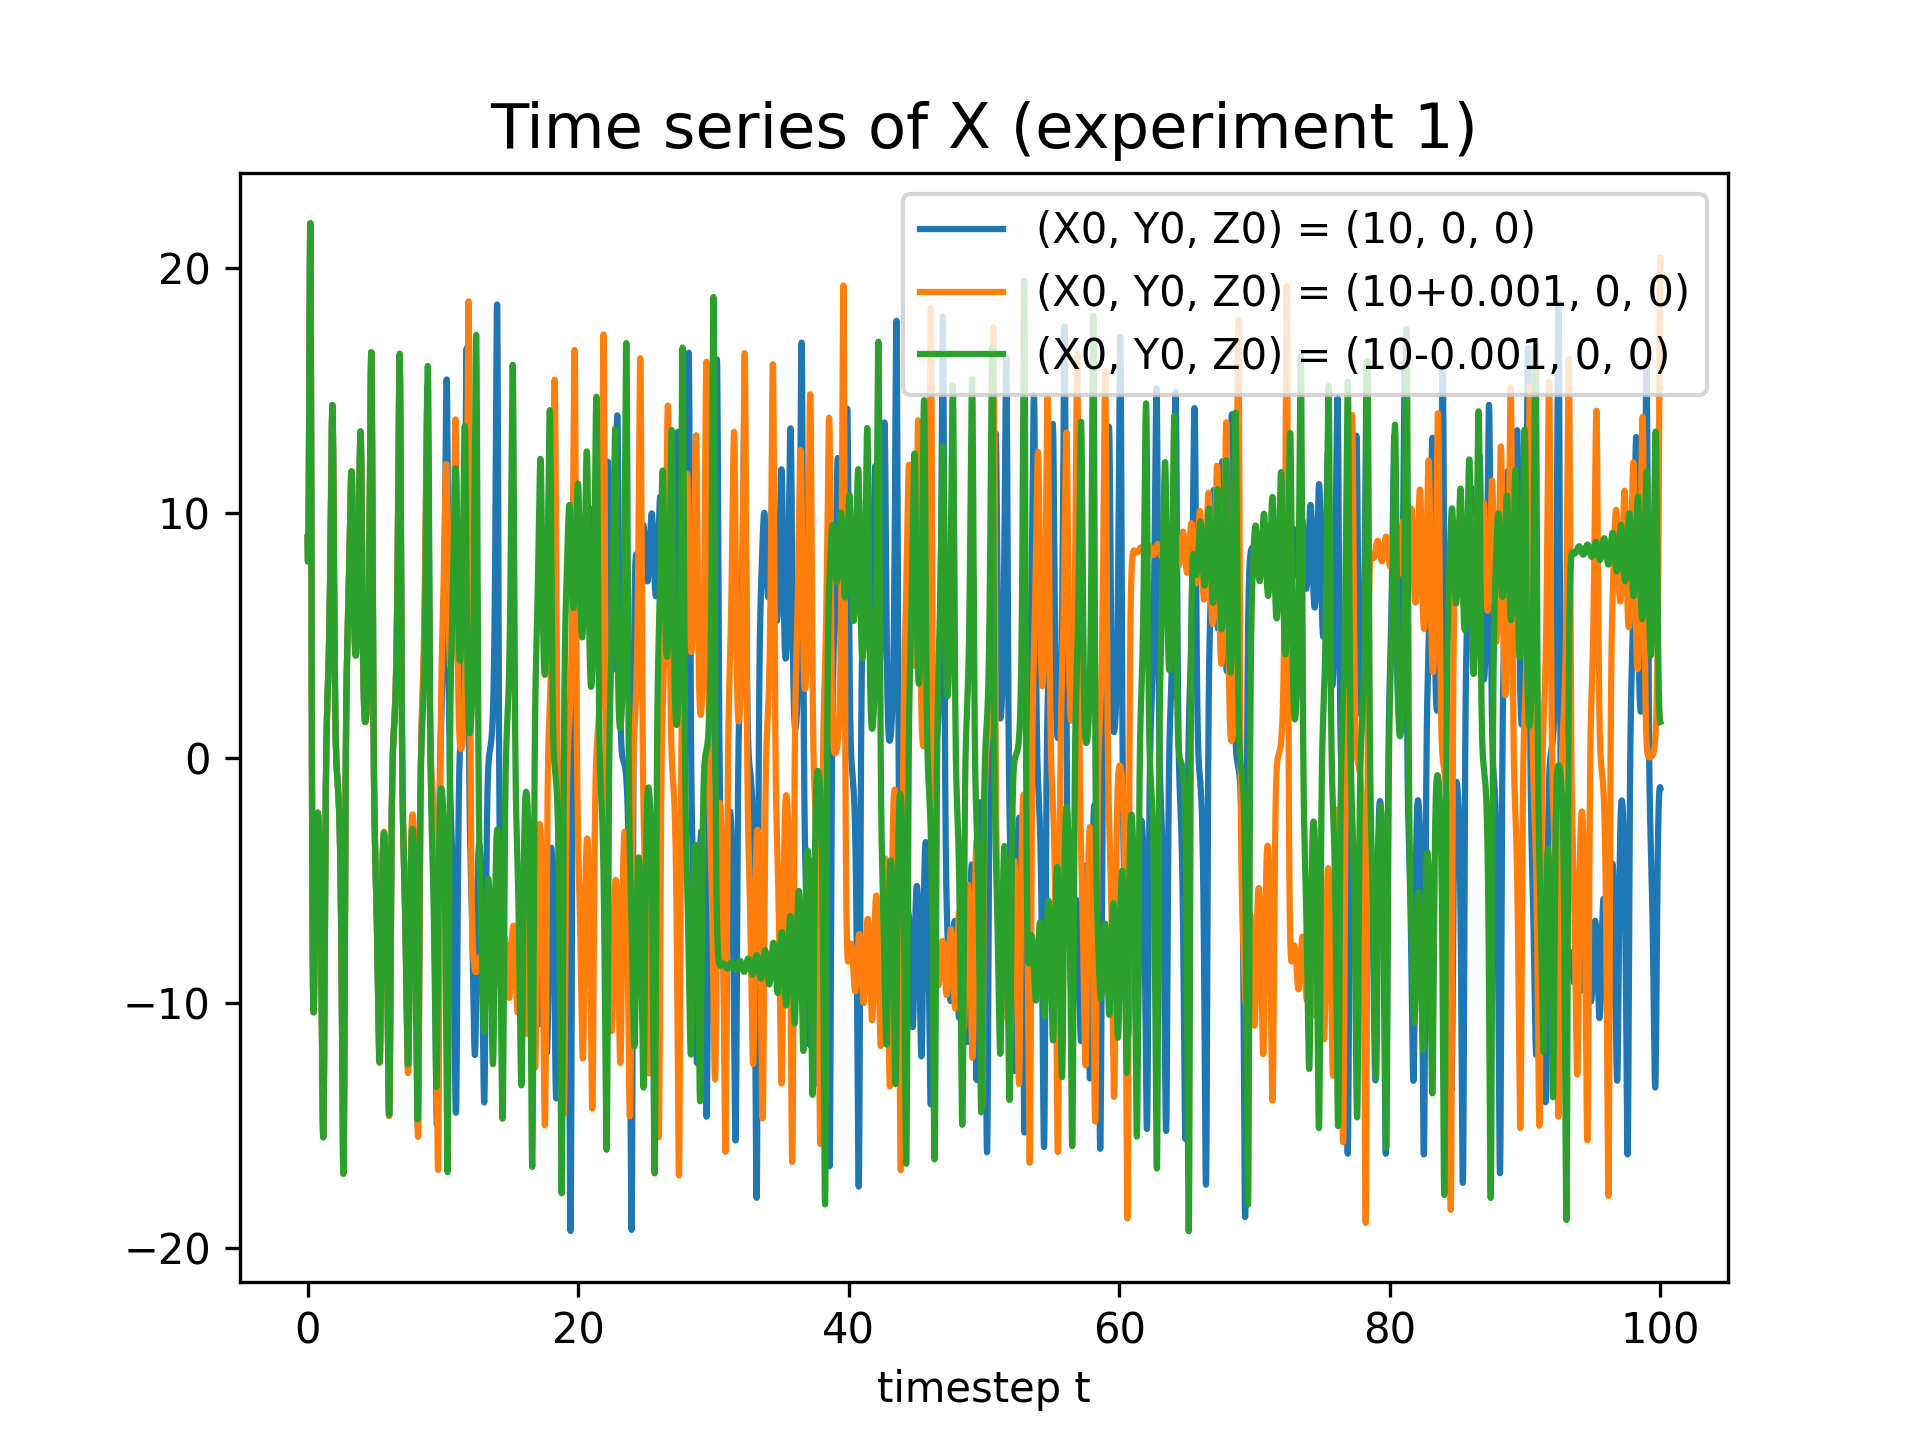
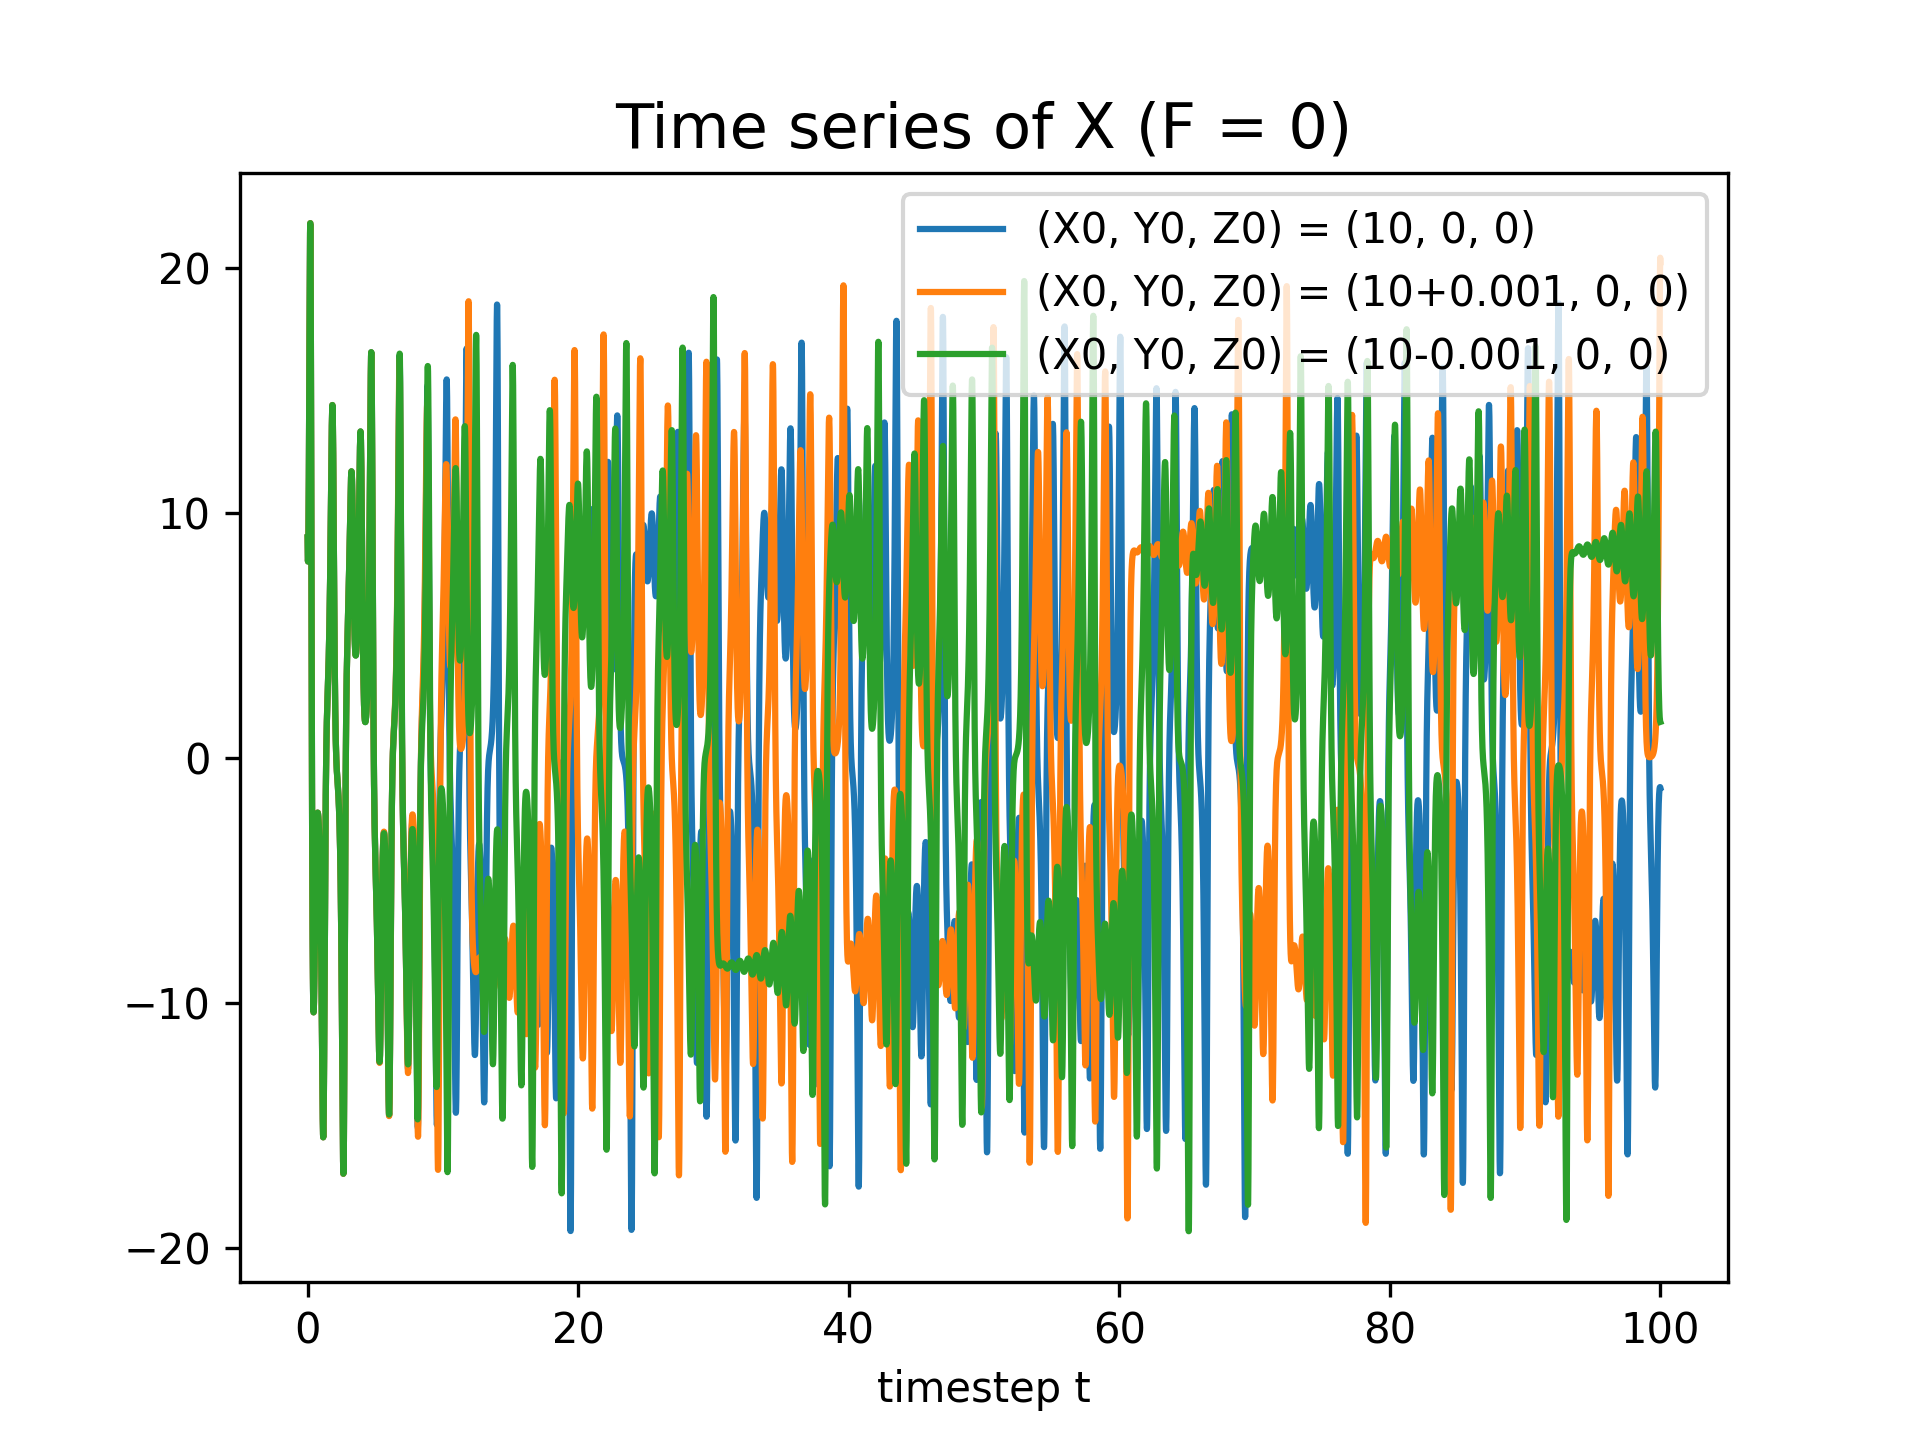
L09.ex

Changed region(s): [[0.25, 0.0625, 0.75, 0.125]]

diff --git a/Ex/L09/L09_ex.py b/Ex/L09/L09_ex.py
@@ -67,14 +67,15 @@ title = 'Time series '
 # plot figure
 fig = plt.figure()
 ax = fig.add_subplot(111)
+# plot
 ax.plot(mylist, xp, label='X')
 ax.plot(mylist, yp, label='Y')
 ax.plot(mylist, zp, label='Z')
-ax.legend()
-ax.set_xlabel('timestep t')
-ax.set_title(title, fontsize=15)
+ax.legend()                         # set legend
+ax.set_xlabel('timestep t')         # set xlabel
+ax.set_title(title, fontsize=15)    # set title
 # save figure
-fig.savefig((parent_dir+save_name), dpi=300)
+fig.savefig((save_name), dpi=300)
 
 
 ##################################################
@@ -140,9 +141,9 @@ ax = fig.add_subplot(111)
 ax.plot(mylist, xi, label='(X0, Y0, Z0) = (10, 0, 0)')
 ax.plot(mylist, xii, label='(X0, Y0, Z0) = (10+0.001, 0, 0)')
 ax.plot(mylist, xiii, label='(X0, Y0, Z0) = (10-0.001, 0, 0)')
-ax.legend()
-ax.set_xlabel('timestep t')
-ax.set_title(title, fontsize=15)
+ax.legend()                         # set legend    
+ax.set_xlabel('timestep t')         # set xlabel    
+ax.set_title(title, fontsize=15)    # set title
 # save figure
 fig.savefig((parent_dir+save_name), dpi=300)
 
@@ -196,10 +197,12 @@ def Lorenz_model_M(X0, Y0, Z0, F):
   return xp, yp, zp, thist
 
 # call fns
+# experiment set 1 F=0
 xia, yia, zia, thistia = Lorenz_model_M(10.0, 0, 0, 0)
 xiia, yiia, ziia, thistiia = Lorenz_model_M(10+0.001, 0, 0, 0)
 xiiia, yiiia, ziiia, thistiiia = Lorenz_model_M(10-0.001, 0, 0, 0)
 
+# experiment set 2 F=10
 xib, yib, zib, thistib = Lorenz_model_M(10.0, 0, 0, 10)
 xiib, yiib, ziib, thistiib = Lorenz_model_M(10+0.001, 0, 0, 10)
 xiiib, yiiib, ziiib, thistiiib = Lorenz_model_M(10-0.001, 0, 0, 10)
@@ -207,32 +210,32 @@ xiiib, yiiib, ziiib, thistiiib = Lorenz_model_M(10-0.001, 0, 0, 10)
 # set save name
 save_name = 'L09_ex2c_1.png'
 # title name
-title = 'Time series of X (experiment 1)'
+title = 'Time series of X (F = 0)'
 # plot figure
 fig = plt.figure()
 ax = fig.add_subplot(111)
 ax.plot(mylist, xia, label='(X0, Y0, Z0) = (10, 0, 0)')
 ax.plot(mylist, xiia, label='(X0, Y0, Z0) = (10+0.001, 0, 0)')
 ax.plot(mylist, xiiia, label='(X0, Y0, Z0) = (10-0.001, 0, 0)')
-ax.legend()
-ax.set_xlabel('timestep t')
-ax.set_title(title, fontsize=15)
+ax.legend()                         # set legend    
+ax.set_xlabel('timestep t')         # set xlabel
+ax.set_title(title, fontsize=15)    # set title
 # save figure
 fig.savefig((parent_dir+save_name), dpi=300)
 
 # set save name
 save_name = 'L09_ex2c_2.png'
 # title name
-title = 'Time series of X (experiment 2)'
+title = 'Time series of X (F = 10)'
 # plot figure
 fig = plt.figure()
 ax = fig.add_subplot(111)
 ax.plot(mylist, xib, label='(X0, Y0, Z0) = (10, 0, 0)')
 ax.plot(mylist, xiib, label='(X0, Y0, Z0) = (10+0.001, 0, 0)')
 ax.plot(mylist, xiiib, label='(X0, Y0, Z0) = (10-0.001, 0, 0)')
-ax.legend()
-ax.set_xlabel('timestep t')
-ax.set_title(title, fontsize=15)
+ax.legend()                         # set legend
+ax.set_xlabel('timestep t')         # set xlabel
+ax.set_title(title, fontsize=15)    # title
 # save figure
 fig.savefig((parent_dir+save_name), dpi=300)
 
@@ -242,7 +245,7 @@ fig.savefig((parent_dir+save_name), dpi=300)
 ## Use Adam-Bashforth Scheme
 ##################################################
 def Lorenz_model_A(X0, Y0, Z0):
-  """ This model output the Lorenz model with setted initial condition.
+  """ This model output the Lorenz model with setted initial condition. Using third-order Adams-Bashforth scheme.
     Arguments:
       X0 - initial X
       Y0 - initial Y
@@ -253,6 +256,7 @@ def Lorenz_model_A(X0, Y0, Z0):
       zp - array of Z
       thist - array of time step
   """
+  # set list V storing X, Y and Z
   V = [[X0], [Y0], [Z0]]
   # constants
   r, sig, b = 28., 10., 8/3.
@@ -272,33 +276,42 @@ def Lorenz_model_A(X0, Y0, Z0):
     # get rid of precision issue of arange
     t = int(t*100)/100.
 
+    # third-order Adams-Bashforth scheme
+    # set X, Y, Z and dXdt, dYdt, dZdt in n=0, n=1, n=2
     if n <= 2:
+      # dXdt, dYdt, dZdt in n=0, n=1, n=2
       dXdt = sig*(V[1][n] - V[0][n])
       dYdt = r*V[0][n] - V[1][n] - V[0][n]*V[2][n]
       dZdt = V[0][n]*V[1][n] - b*V[2][n]
-      V[0].append(V[0][n] + (dXdt * dt))
-      V[1].append(V[1][n] + (dYdt * dt))
-      V[2].append(V[2][n] + (dZdt * dt))
+      # set X, Y, Z in n=0, n=1, n=2
+      V[0].append(V[0][n] + (dXdt * dt))    # X
+      V[1].append(V[1][n] + (dYdt * dt))    # Y
+      V[2].append(V[2][n] + (dZdt * dt))    # Z
+      # Store the result in xp, yp, zp
       xp[n],yp[n],zp[n] = V[0][n], V[1][n], V[2][n]
     else:
+      # create 3 list to store the dXdt, dYdt, dZdt in n>2  
       dXdt = []
       dYdt = []
       dZdt = []
+      # calculate Gn, Gn-1, Gn-2
       for i in range(0,3):
         dXdt.append(sig*(V[1][i] - V[0][i]))
         dYdt.append(r*V[0][i] - V[1][i] - V[0][i]*V[2][i])
         dZdt.append(V[0][i]*V[1][i] - b*V[2][i])
-
+      # update X, Y and Z in n-2, n-1
       for i in range(0,2):
           V[0][i] = V[0][i+1]
           V[1][i] = V[1][i+1]
           V[2][i] = V[2][i+1]
-
+      # calculate new X, Y, Z in n
       V[0][2] = V[0][2] + (dt/12) * (23*dXdt[2] - 16*dXdt[1] + 5*dXdt[0])
       V[1][2] = V[1][2] + (dt/12) * (23*dYdt[2] - 16*dYdt[1] + 5*dYdt[0])
       V[2][2] = V[2][2] + (dt/12) * (23*dZdt[2] - 16*dZdt[1] + 5*dZdt[0])
-      
+      # store the result in xp, yp, zp
       xp[n],yp[n],zp[n] = V[0][2], V[1][2], V[2][2]
+
+    # store timesteps array
     thist[n] = t
     n += 1
 
@@ -319,13 +332,31 @@ ax = fig.add_subplot(111)
 ax.plot(mylist, xi, label='(X0, Y0, Z0) = (10, 0, 0)')
 ax.plot(mylist, xii, label='(X0, Y0, Z0) = (10+0.001, 0, 0)')
 ax.plot(mylist, xiii, label='(X0, Y0, Z0) = (10-0.001, 0, 0)')
-ax.legend()
-ax.set_xlabel('timestep t')
-ax.set_title(title, fontsize=15)
+ax.legend()                         # set legend
+ax.set_xlabel('timestep t')         # set xlabel
+ax.set_title(title, fontsize=15)    # set title
 # save figure
 fig.savefig((parent_dir+save_name), dpi=300)
 
+
+
+##################################################
+## L09 Ex2e
+## Trajectory of Lorenz Model and sensitivity to 
+## initial condition
+##################################################
+# plot 3d trajectory of Lorenz Model in xyz plane
 fig = plt.figure()
 ax = fig.add_subplot(111, projection='3d')
-ax.plot(xi, yi, zi, lw=0.5)
-fig.savefig(parent_dir + 'L09_ex2d_3d.png')
+ax.plot(xia, yia, zia, lw=0.5, label='(X0, Y0, Z0) = (10, 0, 0)')
+ax.plot(xiia, yiia, ziia, lw=0.5, label='(X0, Y0, Z0) = (10+0.001, 0, 0)')
+ax.plot(xiiia, yiiia, ziiia, lw=0.5, label='(X0, Y0, Z0) = (10-0.001, 0, 0)')
+ax.legend()                                         # set legend
+ax.set_title('Trajectory of the Lorenz Model')      # set title
+# save figure
+fig.savefig(parent_dir + 'L09_ex2e.png')
+
+
+##################################################
+## The END
+##################################################
